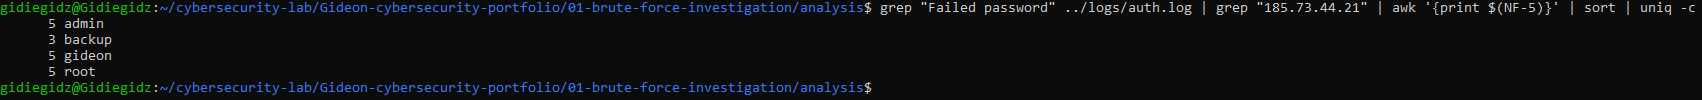
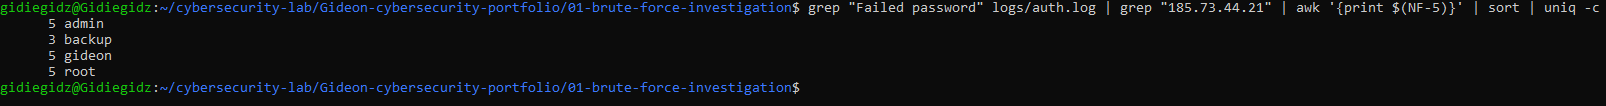
Standardize investigation command paths

diff --git a/01-brute-force-investigation/analysis/investigation.md b/01-brute-force-investigation/analysis/investigation.md
@@ -48,7 +48,7 @@ I started by checking how many failed SSH login attempts were in the log.
 
 I used:
 
-    grep -c "Failed password" ../logs/auth.log
+    grep -c "Failed password" logs/auth.log
 
 The result was:
 
@@ -65,13 +65,13 @@ Next, I wanted to see which IP addresses were behind the failed login attempts.
 
 I used:
 
-    grep "Failed password" ../logs/auth.log | awk '{print $(NF-3)}'
+    grep "Failed password" logs/auth.log | awk '{print $(NF-3)}'
 
 This showed the IP address for each failed login attempt.
 
 I then sorted and counted the IP addresses:
 
-    grep "Failed password" ../logs/auth.log | awk '{print $(NF-3)}' | sort | uniq -c
+    grep "Failed password" logs/auth.log | awk '{print $(NF-3)}' | sort | uniq -c
 
 The results were:
 
@@ -89,7 +89,7 @@ Next, I wanted to see which accounts were being targeted by the suspicious IP ad
 
 I used:
 
-    grep "Failed password" ../logs/auth.log | grep "185.73.44.21" | awk '{print $(NF-5)}' | sort | uniq -c
+    grep "Failed password" logs/auth.log | grep "185.73.44.21" | awk '{print $(NF-5)}' | sort | uniq -c
 
 The results were:
 
@@ -108,7 +108,7 @@ Next, I checked if the suspicious IP address had any successful logins.
 
 I used:
 
-    grep "Accepted password" ../logs/auth.log | grep "185.73.44.21"
+    grep "Accepted password" logs/auth.log | grep "185.73.44.21"
 
 The result was:
 
